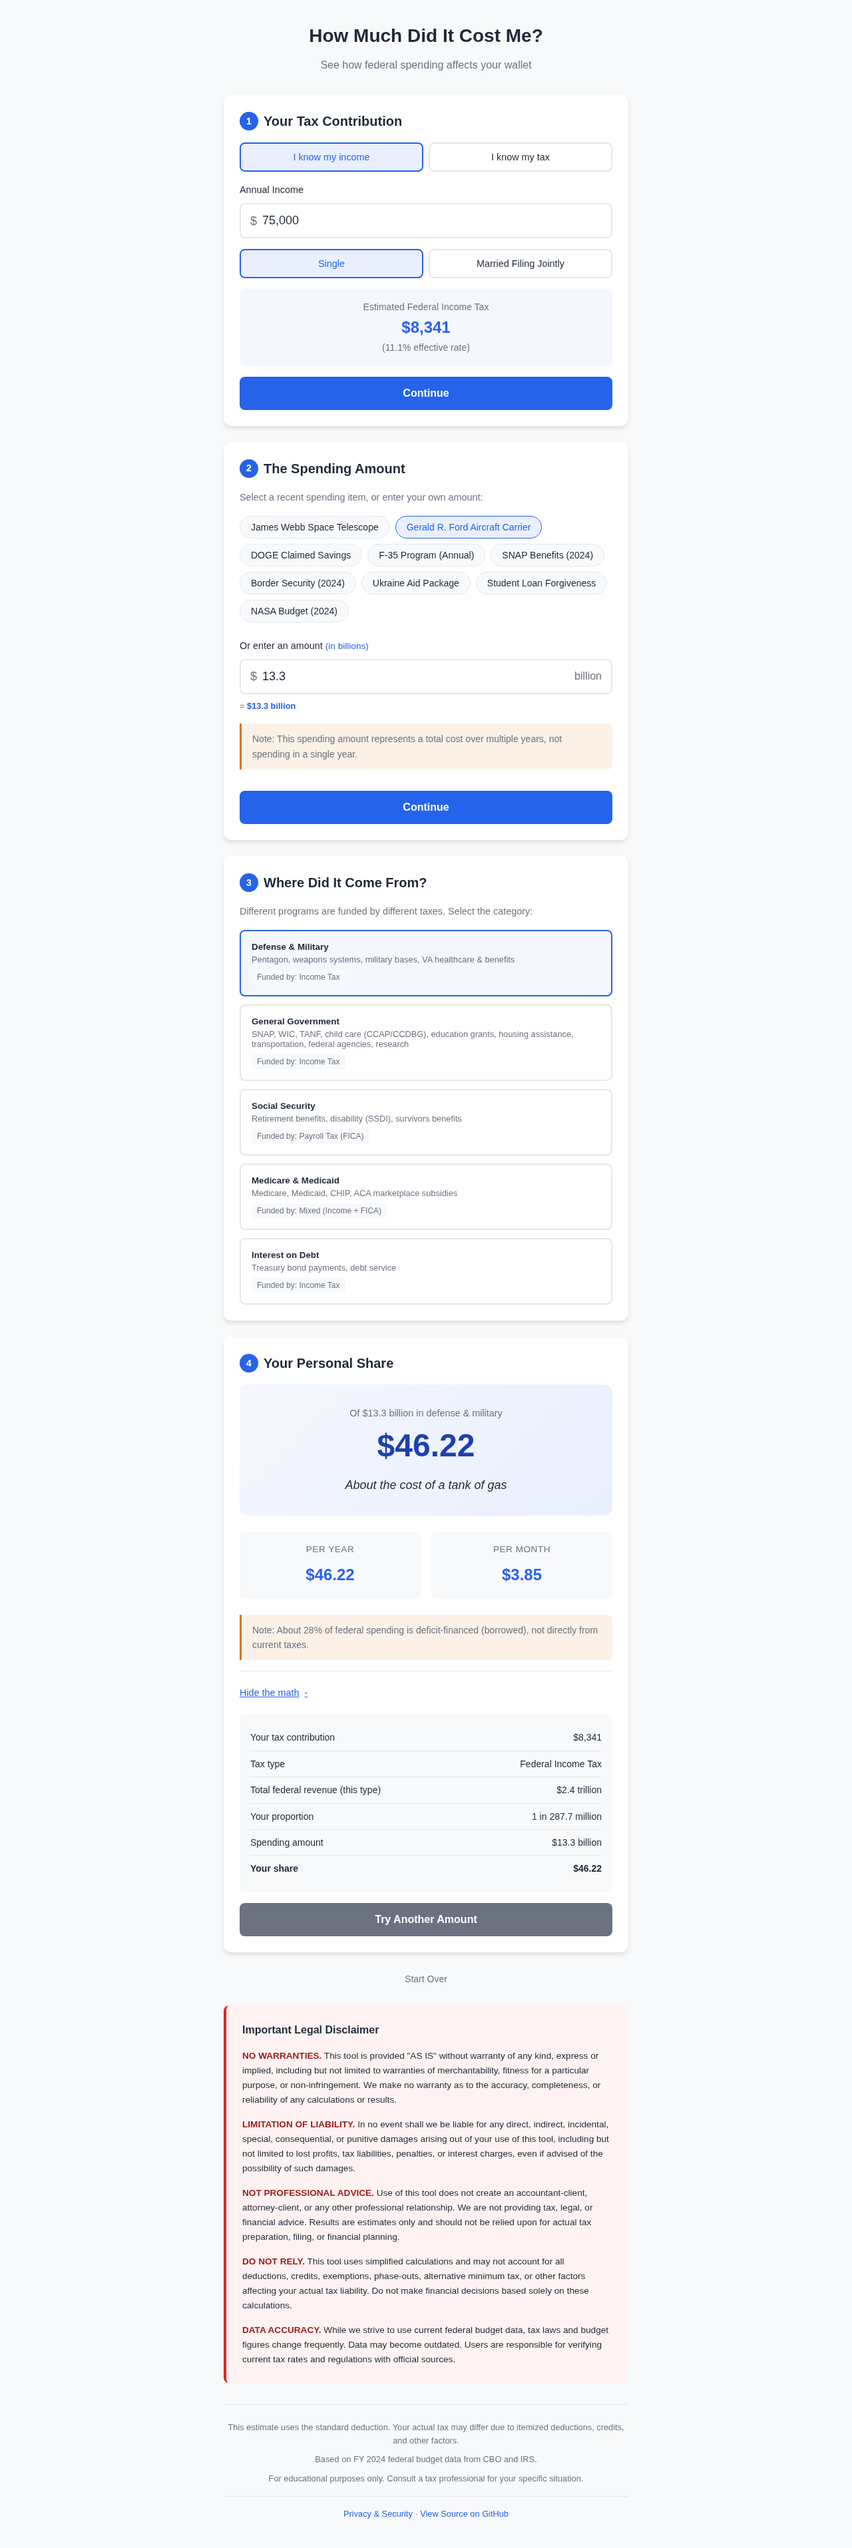
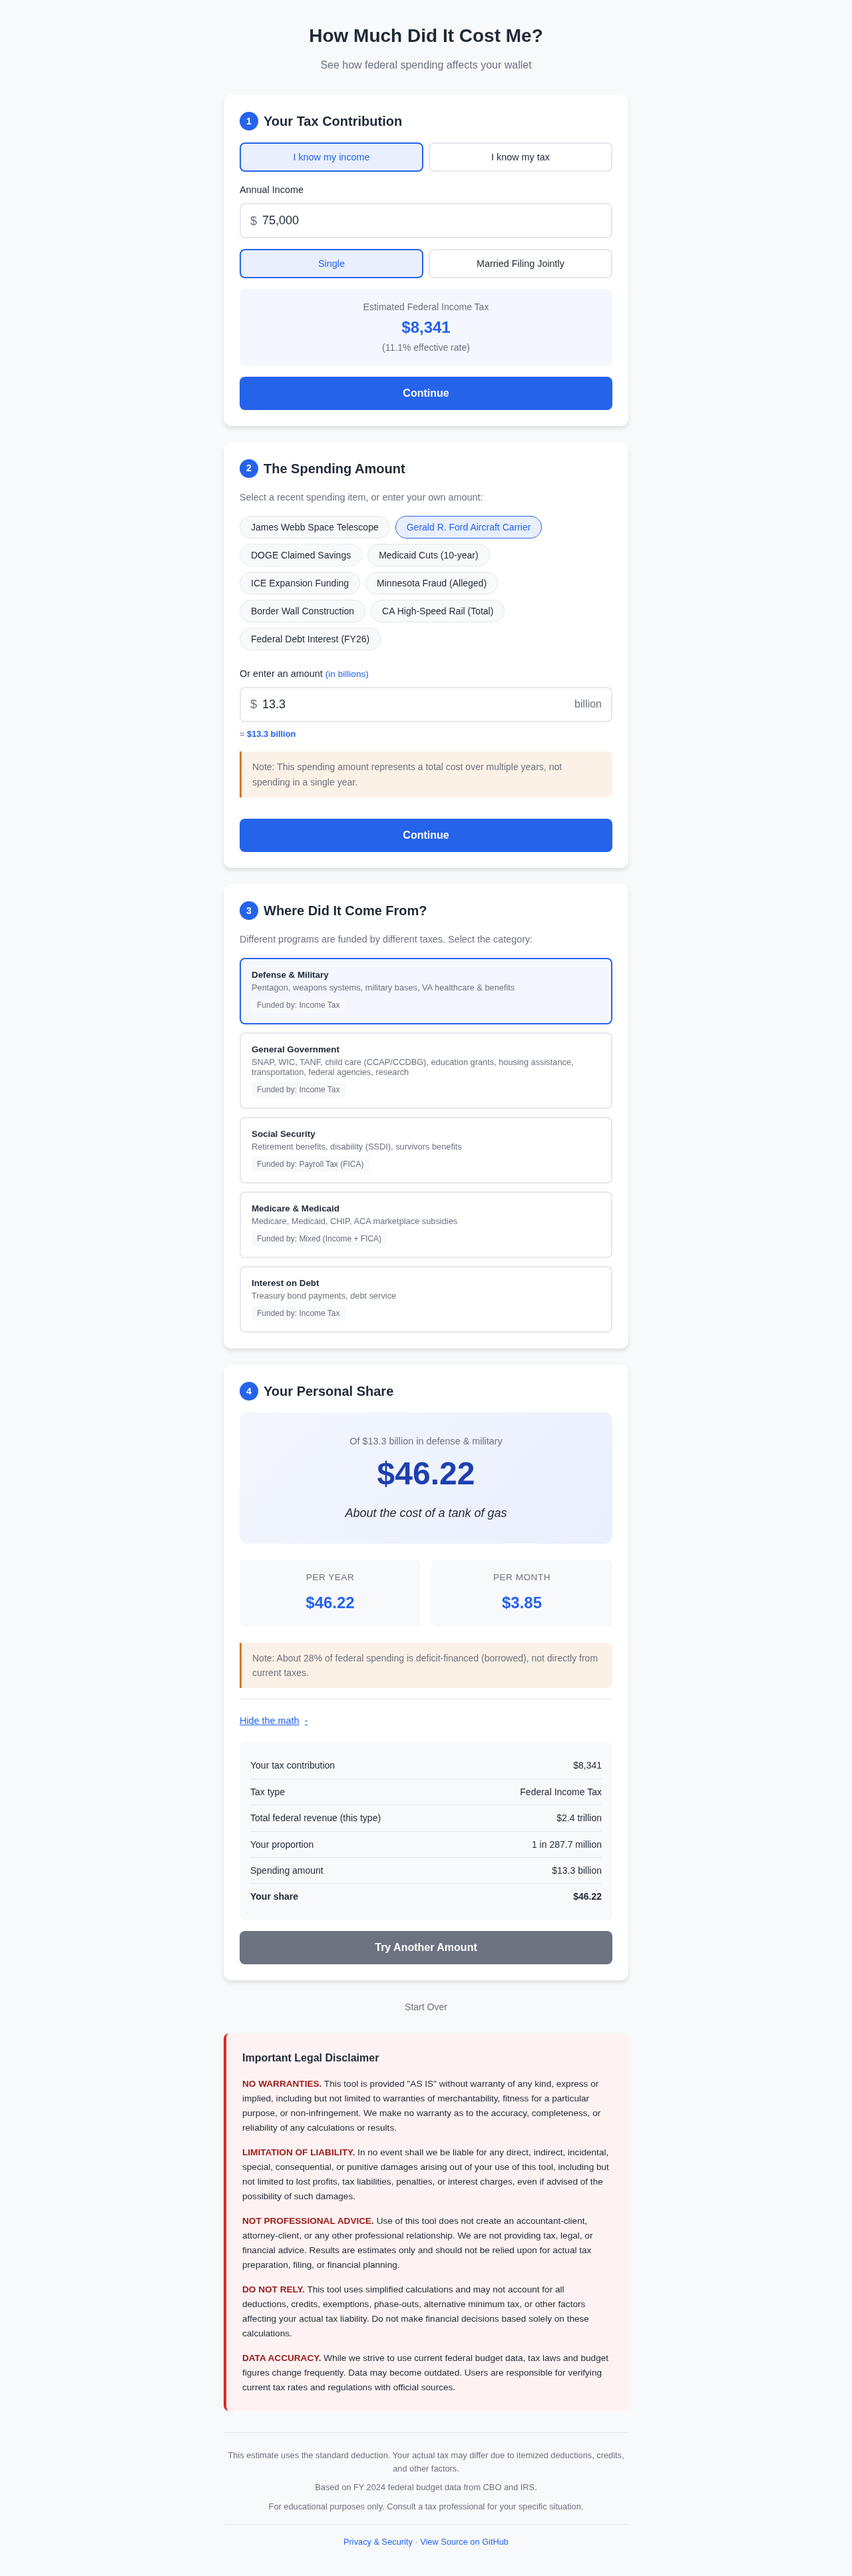
Update weekly trending federal spending items
This week's trending items reflect current news:
- DOGE Claimed Savings: $214B (disputed)
- Medicaid Cuts: $900B (10-year from H.R. 1)
- ICE Expansion: $75B (One Big Beautiful Bill Act)
- Minnesota Fraud: $9B (alleged daycare/Medicaid fraud)
- Border Wall: $46.5B (new construction funding)
- CA High-Speed Rail: $128B (projected total cost)
- Federal Debt Interest: $1T (FY2026 projection)

diff --git a/js/data.js b/js/data.js
@@ -154,60 +154,60 @@ const PERMANENT_SPENDING = {
 const TRENDING_SPENDING = {
   trending1: {
     label: 'DOGE Claimed Savings',
-    value: 55_000_000_000,           // $55 billion (claimed savings as of early 2025)
-    source: 'DOGE official claims',
-    lastVerified: '2025-01-10',
+    value: 214_000_000_000,          // $214 billion (claimed savings as of Oct 2025)
+    source: 'DOGE official website (doge.gov)',
+    lastVerified: '2026-01-12',
     category: 'general',
-    notes: 'Claimed cost savings from Department of Government Efficiency - accuracy disputed',
+    notes: 'Claimed savings from Department of Government Efficiency - disputed by analysts who estimate actual savings at $2B',
     isSavings: true                  // This is a savings amount, not spending
   },
   trending2: {
-    label: 'F-35 Program (Annual)',
-    value: 12_000_000_000,           // $12 billion (approximate annual spending)
-    source: 'Department of Defense',
-    lastVerified: '2025-01-10',
-    category: 'defense',
-    notes: 'Annual F-35 Lightning II program costs - frequently debated'
+    label: 'Medicaid Cuts (10-year)',
+    value: 900_000_000_000,          // $900 billion (H.R. 1 cuts over 10 years)
+    source: 'Congressional Budget Office',
+    lastVerified: '2026-01-12',
+    category: 'medicare',
+    notes: 'Largest Medicaid funding cut in history from One Big Beautiful Bill Act - CBO projects 5.8M losing coverage'
   },
   trending3: {
-    label: 'SNAP Benefits (2024)',
-    value: 113_000_000_000,          // $113 billion (FY2024)
-    source: 'USDA',
-    lastVerified: '2025-01-10',
+    label: 'ICE Expansion Funding',
+    value: 75_000_000_000,           // $75 billion (4-year allocation)
+    source: 'One Big Beautiful Bill Act',
+    lastVerified: '2026-01-12',
     category: 'general',
-    notes: 'Supplemental Nutrition Assistance Program - often in political debates'
+    notes: 'Part of $170B immigration enforcement package - ICE budget tripling to $30B annually'
   },
   trending4: {
-    label: 'Border Security (2024)',
-    value: 25_000_000_000,           // $25 billion (FY2024 estimate)
-    source: 'DHS Budget',
-    lastVerified: '2025-01-10',
+    label: 'Minnesota Fraud (Alleged)',
+    value: 9_000_000_000,            // $9 billion (federal prosecutor estimate)
+    source: 'First Assistant US Attorney Joe Thompson',
+    lastVerified: '2026-01-12',
     category: 'general',
-    notes: 'Border security and immigration enforcement - ongoing political debate'
+    notes: 'Alleged fraud in daycare/Medicaid programs - Gov. Walz dropped reelection bid; figure disputed'
   },
   trending5: {
-    label: 'Ukraine Aid Package',
-    value: 61_000_000_000,           // $61 billion (2024 aid package)
-    source: 'Congressional Budget',
-    lastVerified: '2025-01-10',
-    category: 'defense',
-    notes: 'Military and economic assistance to Ukraine - contentious topic'
+    label: 'Border Wall Construction',
+    value: 46_500_000_000,           // $46.5 billion (new construction funding)
+    source: 'House Homeland Security Committee',
+    lastVerified: '2026-01-12',
+    category: 'general',
+    notes: 'Funding for 700 additional miles of wall, 900 miles river barriers, 630 miles secondary walls'
   },
   trending6: {
-    label: 'Student Loan Forgiveness',
-    value: 138_000_000_000,          // $138 billion (cumulative forgiveness 2021-2024)
-    source: 'Department of Education',
-    lastVerified: '2025-01-10',
+    label: 'CA High-Speed Rail (Total)',
+    value: 128_000_000_000,          // $128 billion (current total estimate)
+    source: 'CA High-Speed Rail Authority',
+    lastVerified: '2026-01-12',
     category: 'general',
-    notes: 'Various student debt relief programs - politically divisive'
+    notes: 'Originally $33B in 2008 - Trump admin cut $4B federal funds; only 119 miles completed after $13.8B spent'
   },
   trending7: {
-    label: 'NASA Budget (2024)',
-    value: 25_000_000_000,           // $25 billion (FY2024)
-    source: 'NASA',
-    lastVerified: '2025-01-10',
-    category: 'general',
-    notes: 'Artemis program and Mars exploration - popular but debated spending'
+    label: 'Federal Debt Interest (FY26)',
+    value: 1_000_000_000_000,        // $1 trillion (projected FY2026)
+    source: 'Congressional Budget Office',
+    lastVerified: '2026-01-12',
+    category: 'interest',
+    notes: 'Now 2nd largest spending category after Social Security - tripled since 2020'
   }
 };
 
